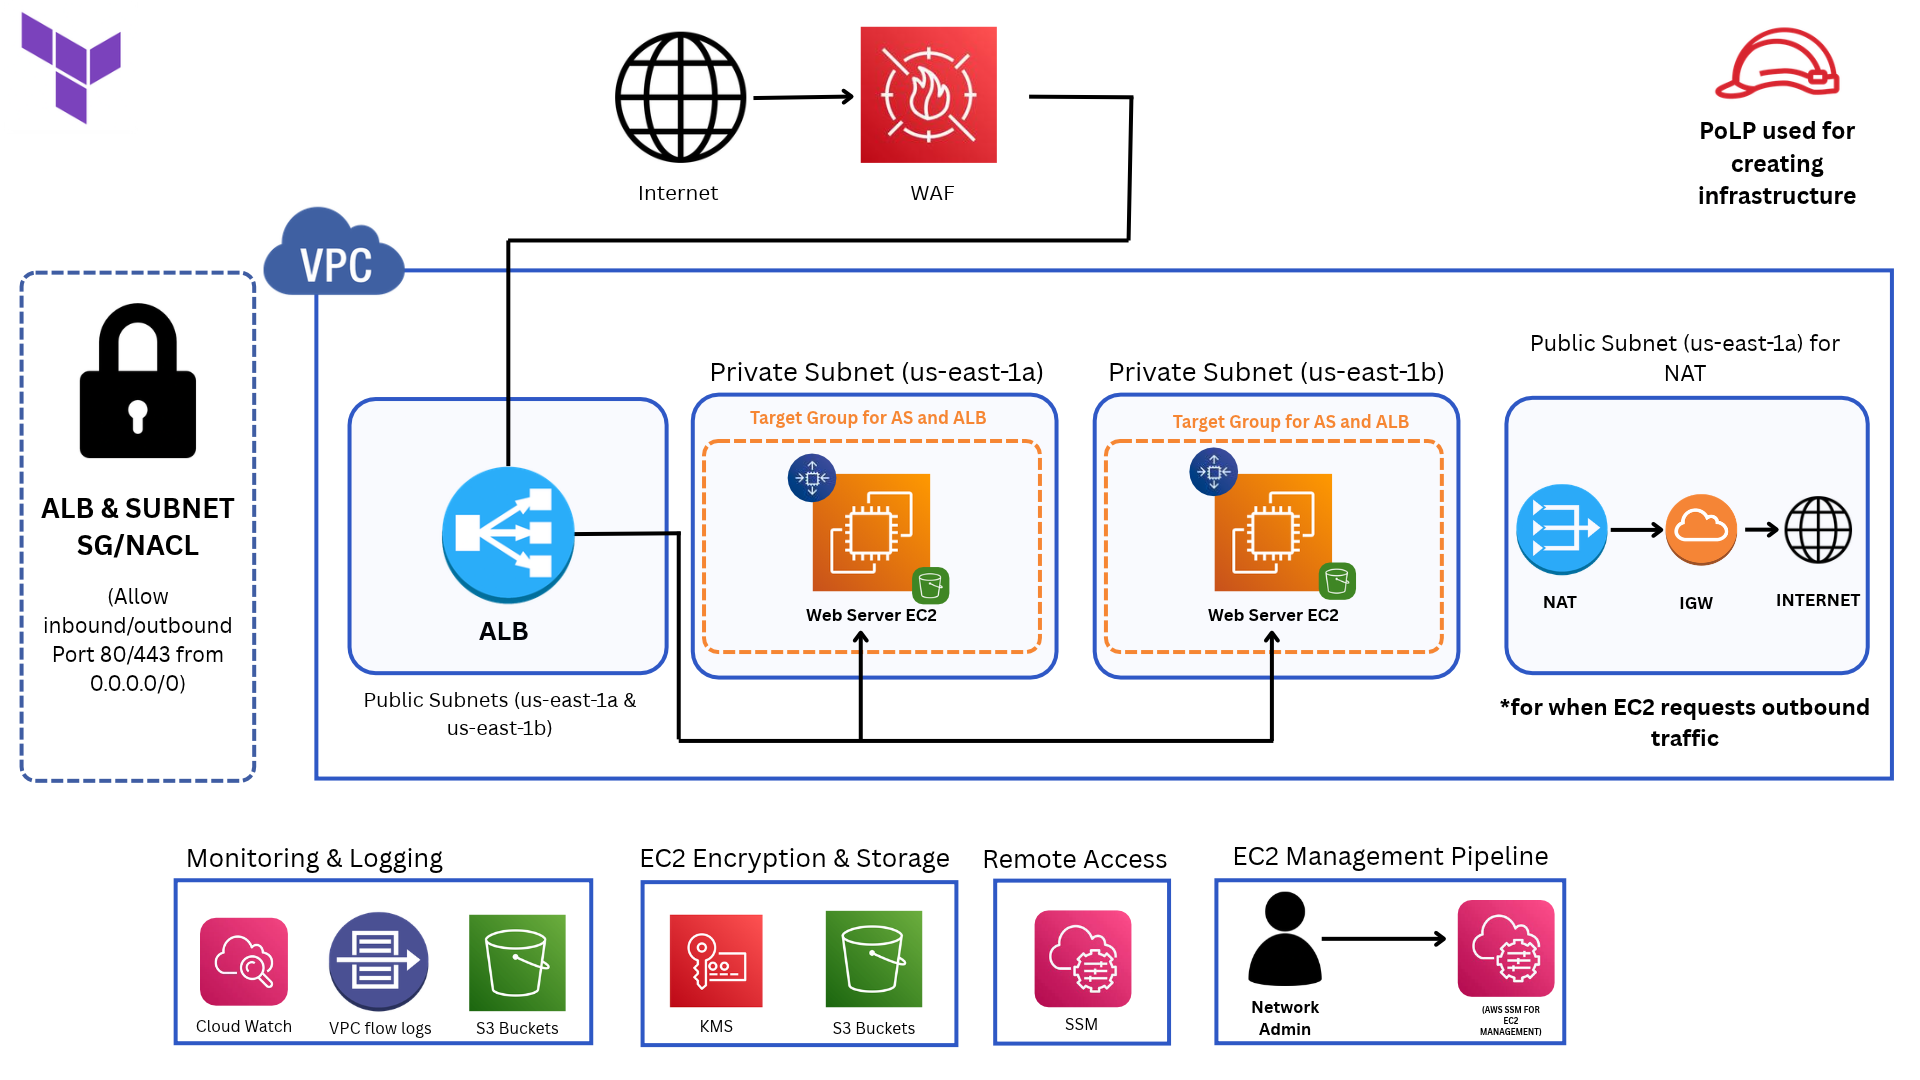
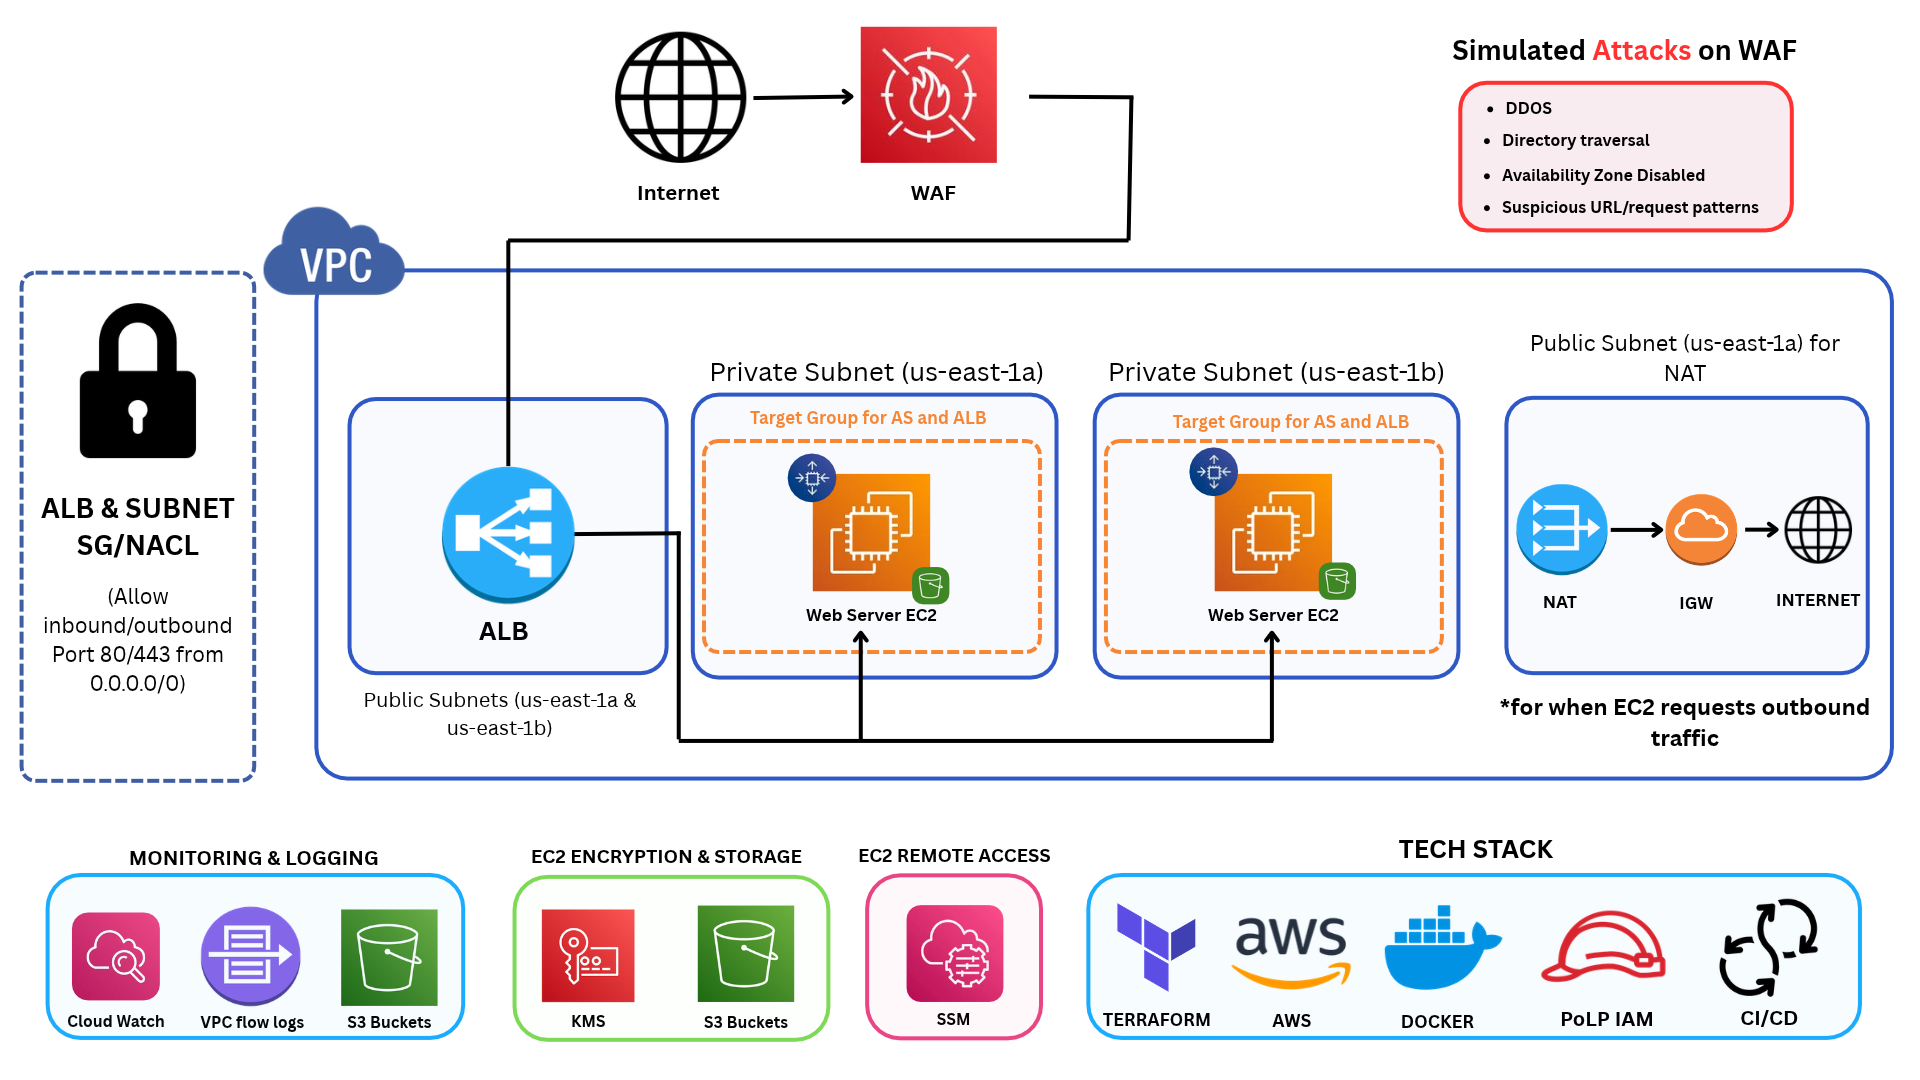
New Diagram

diff --git a/docs/Next Steps.md b/docs/Next Steps.md
@@ -121,6 +121,10 @@ Block Public Access s3  ✅
 
 
 
+Write Flow and ALB logs to S3 Bucket
+
+
+
 Docker and ci/cd pipeline
 
 
@@ -129,7 +133,9 @@ Edit IAM Permissions for PoLP permissions
 
 
 
-Add Docker and CI to Diagram
+Add Docker and CI to Diagram ✅
+
+
 
 
 
